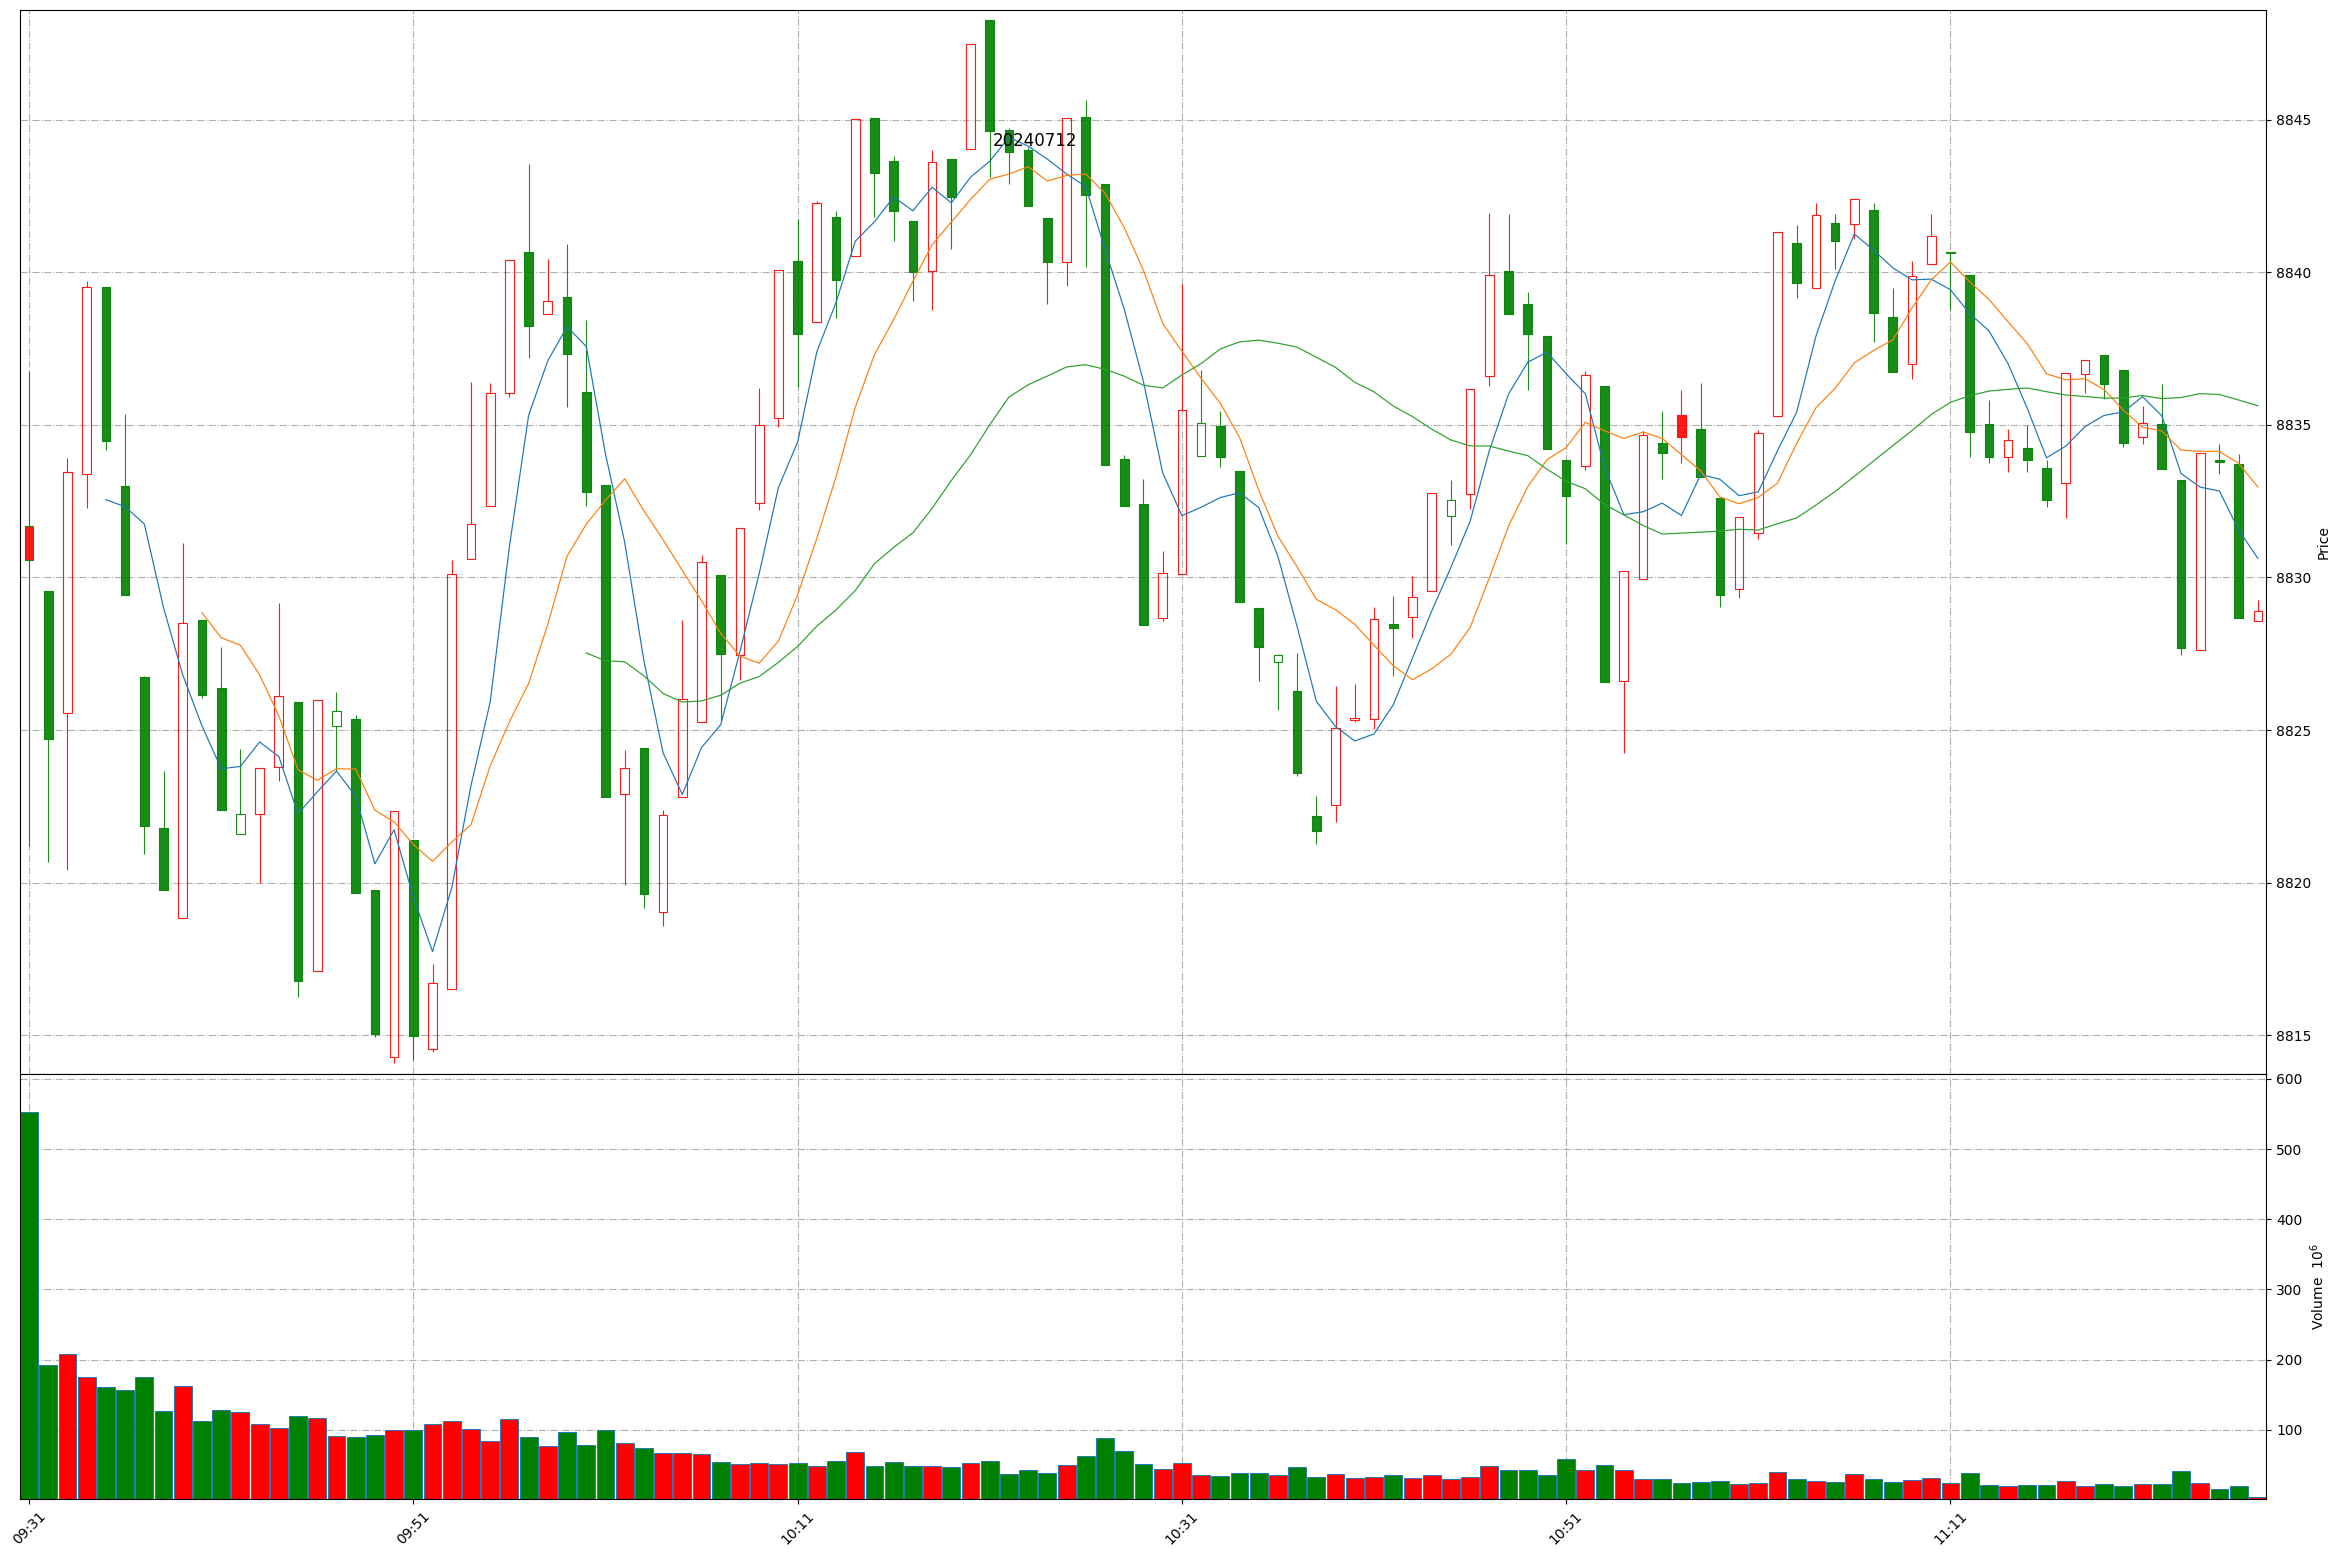
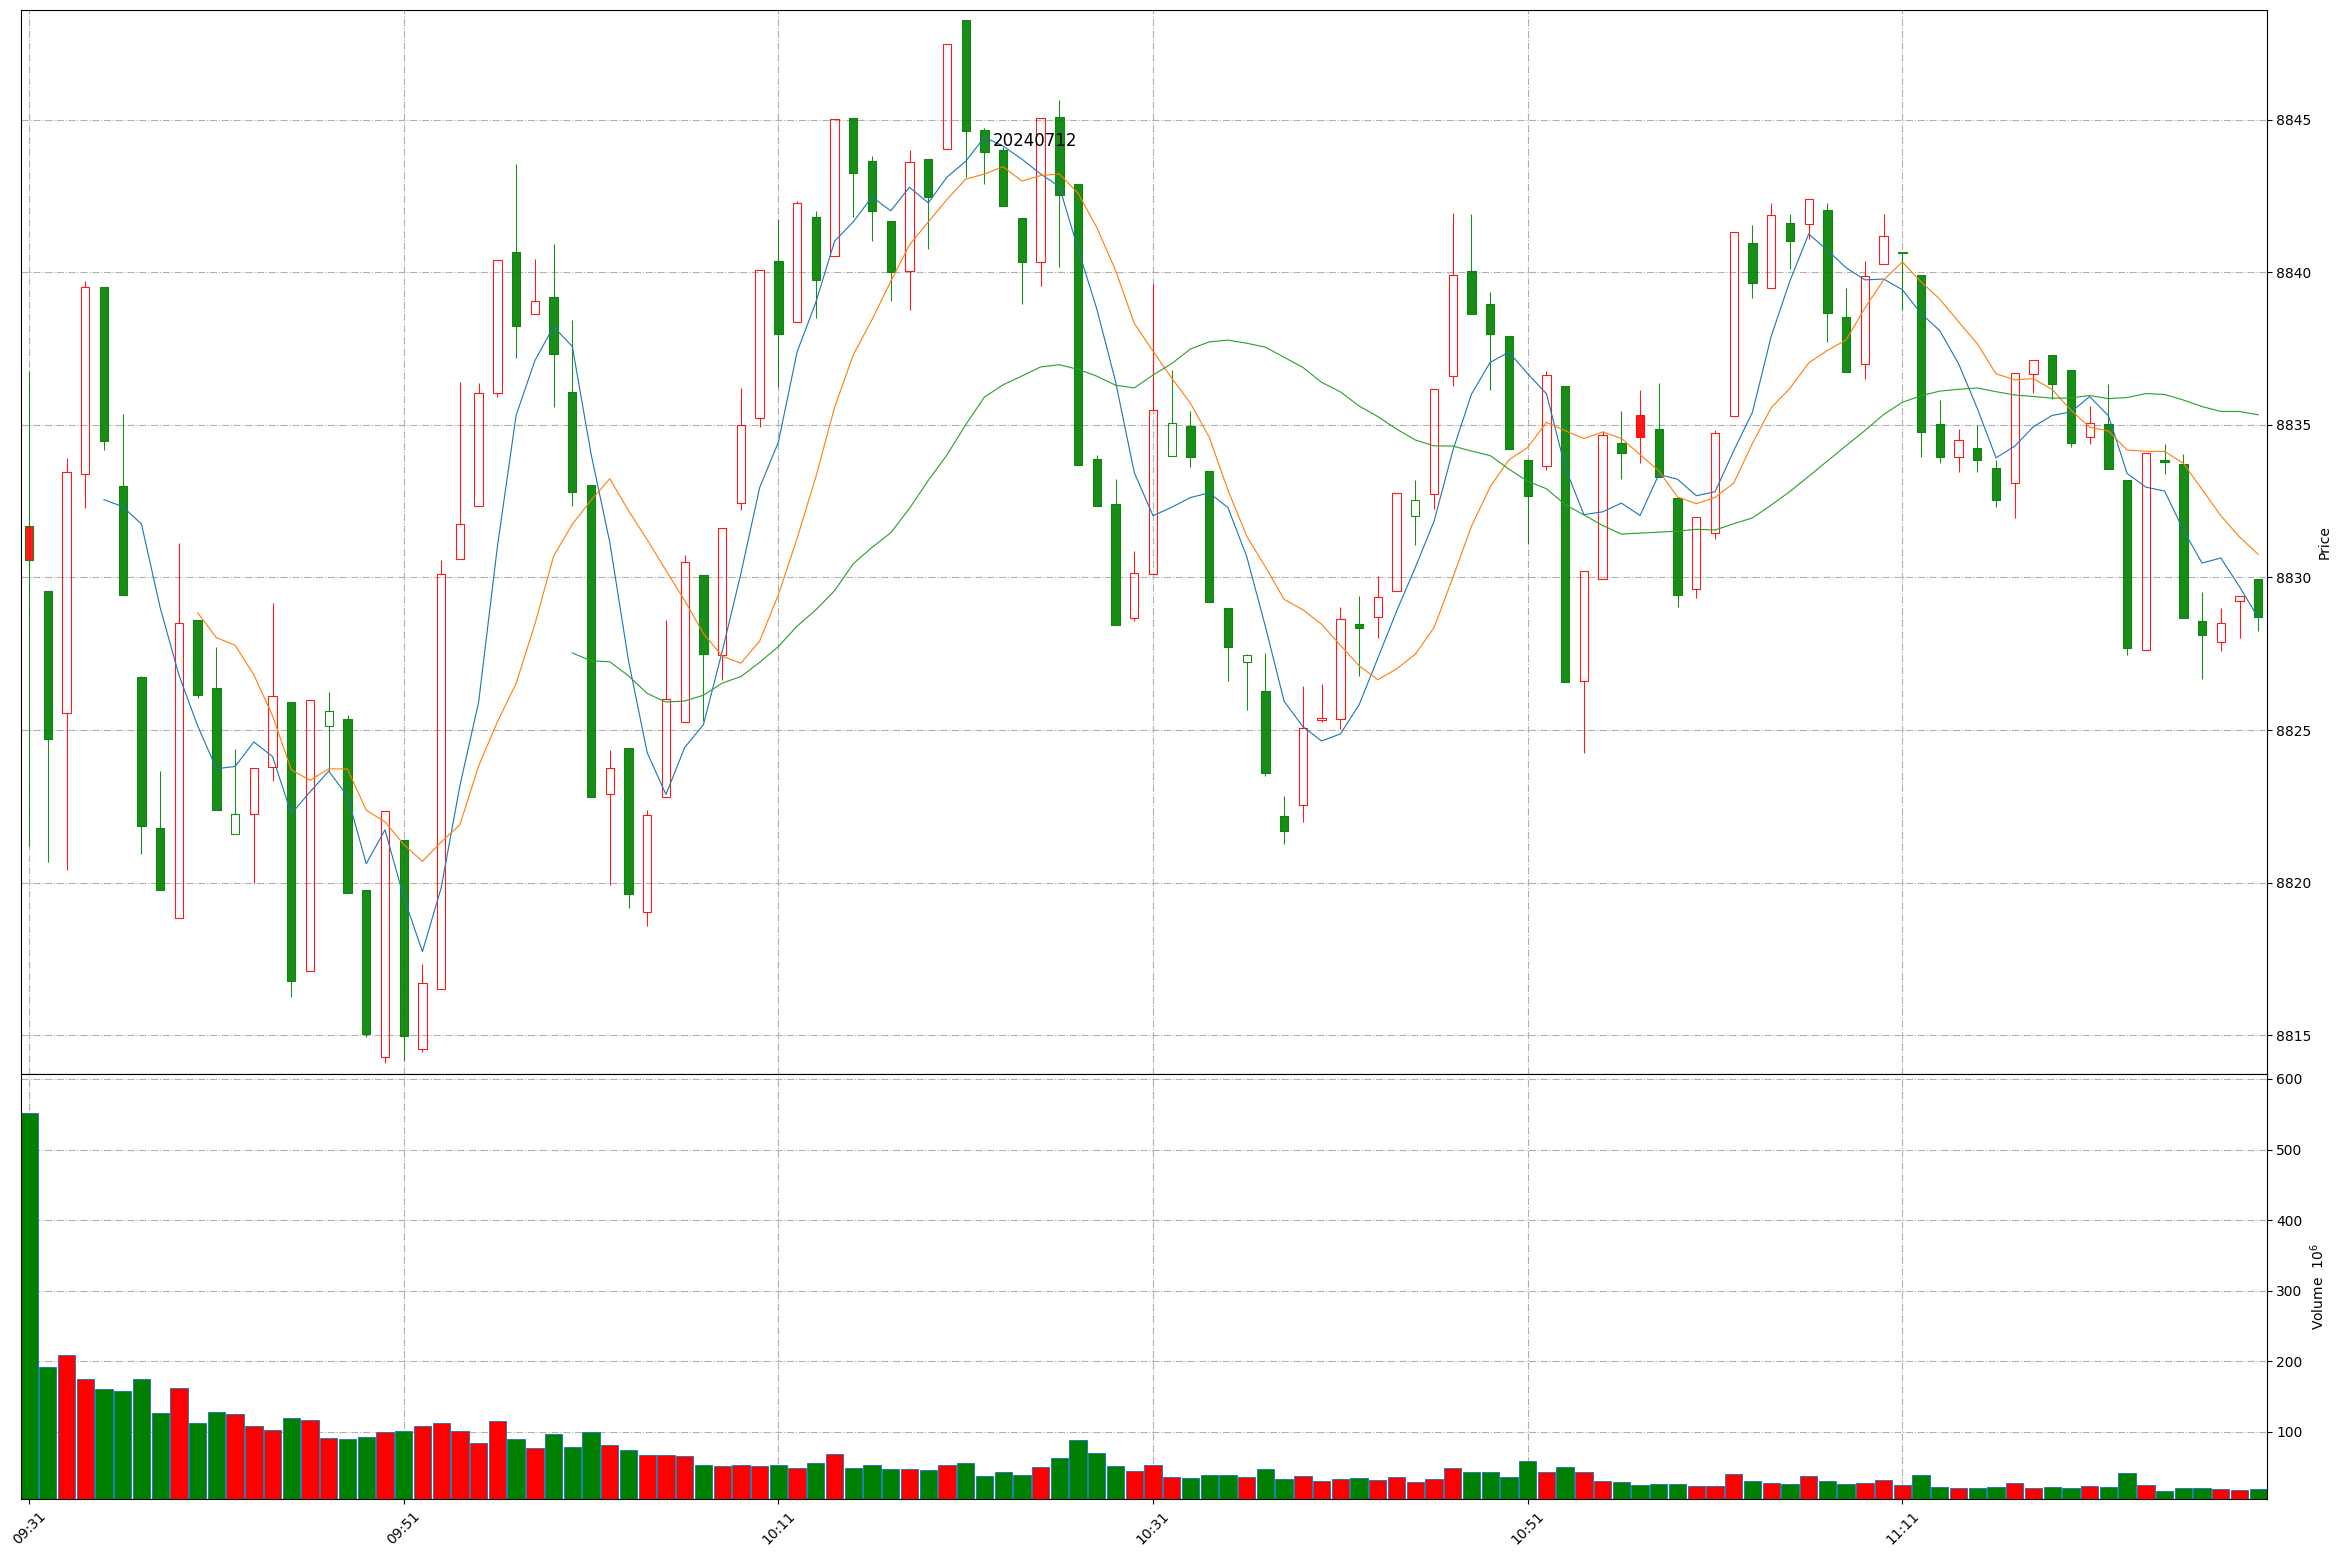
Github action update at 2024-07-12 11:31:56.

diff --git a/README.md b/README.md
@@ -1,11 +1,11 @@
 
 # Daily-A-share-market-quotes 每日 A 股指数（5min 更新）- 20240712
 
-### 上证指数 20240712 11:26
+### 上证指数 20240712 11:31
 ![](./fig/2024/7/20240712-sh000001.png)
 
-### 深证成指 20240712 11:26
+### 深证成指 20240712 11:31
 ![](./fig/2024/7/20240712-sz399001.png)
 
-### 北证50 20240712 11:26
+### 北证50 20240712 11:31
 ![](./fig/2024/7/20240712-bj899050.png)
